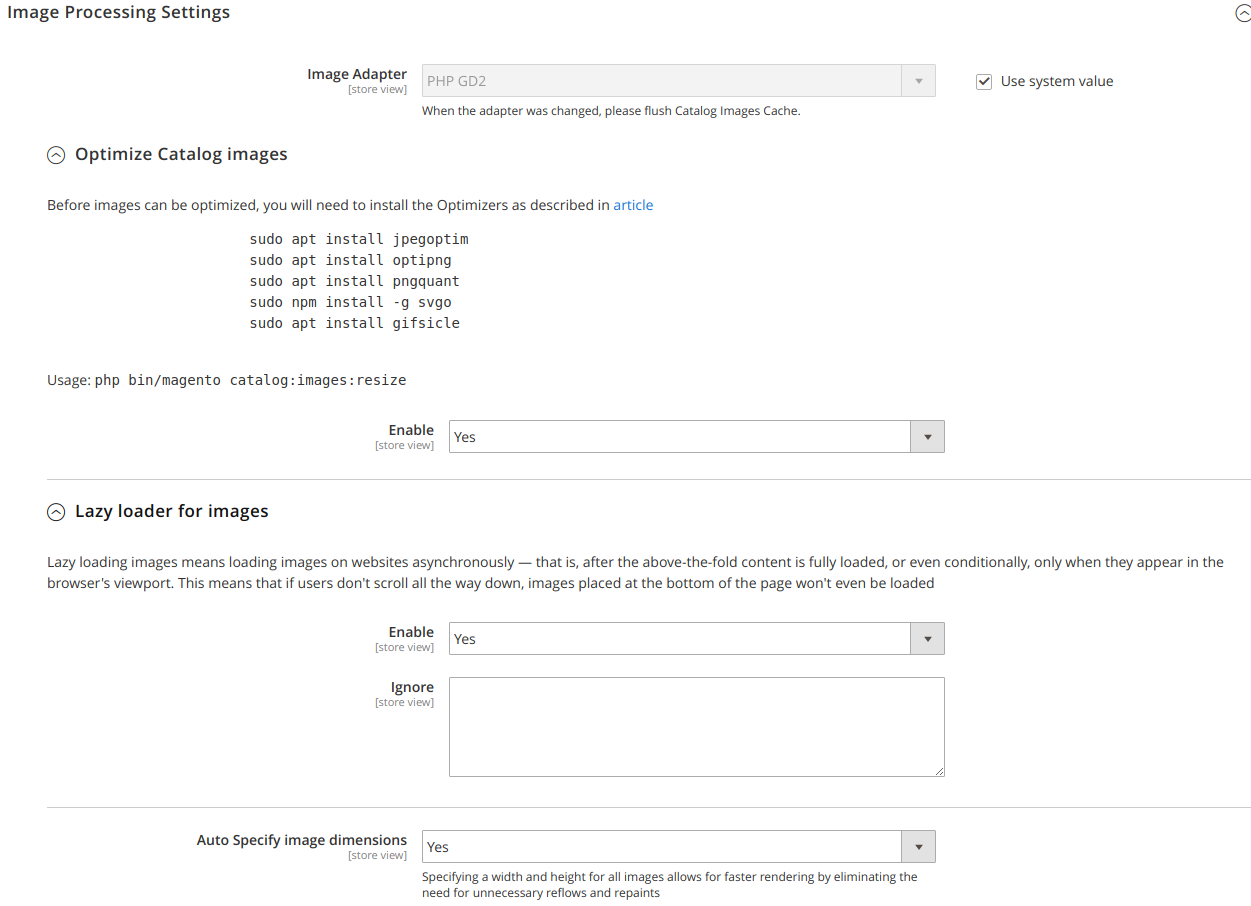
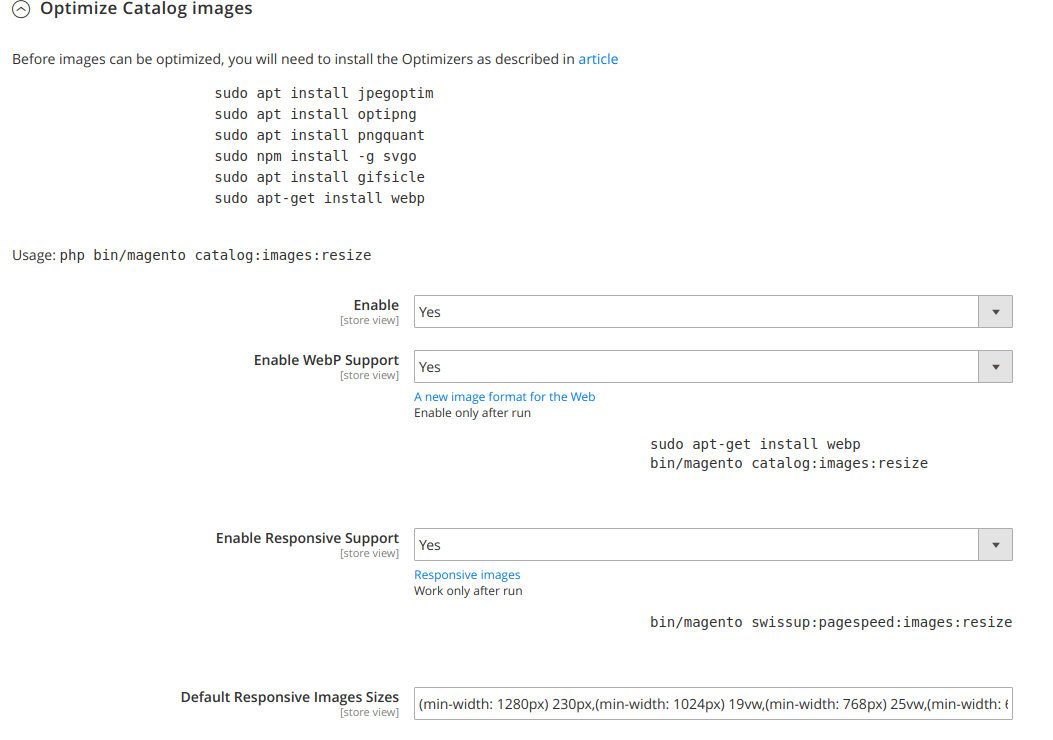
swissup/pagespeed:1.2.0

diff --git a/m2/extensions/pagespeed/configuration.md b/m2/extensions/pagespeed/configuration.md
@@ -14,11 +14,12 @@ category: Pagespeed
 
 ![Main section](/images/m2/pagespeed/configuration/main.png)
 
-Option                   | Description
--------------------------|--------------------------------------------------
-Enable                   | Allows to enable/disable pagespeed per store view
-Enable in developer mode | Allows to enable/disable pagespeed per in [developer mode](https://devdocs.magento.com/guides/v2.2/config-guide/bootstrap/magento-modes.html)
-Test GZIP compression    | Test gzip compression support on your web server
+Option                     | Description
+---------------------------|--------------------------------------------------
+Enable                     | Allows to enable/disable pagespeed per store view
+Enable in developer mode   | Allows to enable/disable pagespeed per in [developer mode](https://devdocs.magento.com/guides/v2.2/config-guide/bootstrap/magento-modes.html)
+Test GZIP compression      | Test gzip compression support on your web server
+Server HTTP/2 push enabled | Enable/disable native [HTTP/2](https://en.wikipedia.org/wiki/HTTP/2) support
 
 ### Minify HTML Content section
 
@@ -90,9 +91,12 @@ sudo apt install gifsicle
 php bin/magento catalog:images:resize
 ~~~
 
-Option | Description
--------|-----------------------------------------------
-Enable | Allows to enable/disable image auto opmisation (Yes)
+Option                           | Description
+---------------------------------|-----------------------------------------------------
+Enable                           | Allows to enable/disable image auto opmisation (Yes)
+Enable WebP Support              | Enable/disable webp image detecting and generating
+Enable Responsive Images Support | Enable/disable [responsive images](https://developer.mozilla.org/en-US/docs/Learn/HTML/Multimedia_and_embedding/Responsive_images) detecting and generating (0.5x, 0.75x, 2x, 3x)
+Default Responsive Images Sizes  | [Default sizes atribute values](https://developer.mozilla.org/en-US/docs/Learn/HTML/Multimedia_and_embedding/Responsive_images#Resolution_switching_Different_sizes)
 
 
 #### Lazy loader for images

diff --git a/m2/extensions/pagespeed/changelog.md b/m2/extensions/pagespeed/changelog.md
@@ -8,6 +8,25 @@ category: Pagespeed
 
 # Changelog
 
+### Version 1.2.0
+
+**Features**
+- Add Responsive Images feature
+- Add HTTP/2 support
+- Add webp image support
+- Add console command swissup:pagespeed:images:resize
+- Add font-display:swap by default for @font-face in merged css
+- Add profiling
+
+**Fixes**
+- Fix ignore lazyload bug
+- Fix Zend_Dom_Query class not exist
+- Fix </script> inside scrip
+- Fix undefined CURL_HTTP_VERSION_2_0
+- Fix gzip checking
+- Improve deferjs optimizer
+- Add AMP checking ?amp=1
+
 ### Version 1.1.0
 
 - Rename composer package
